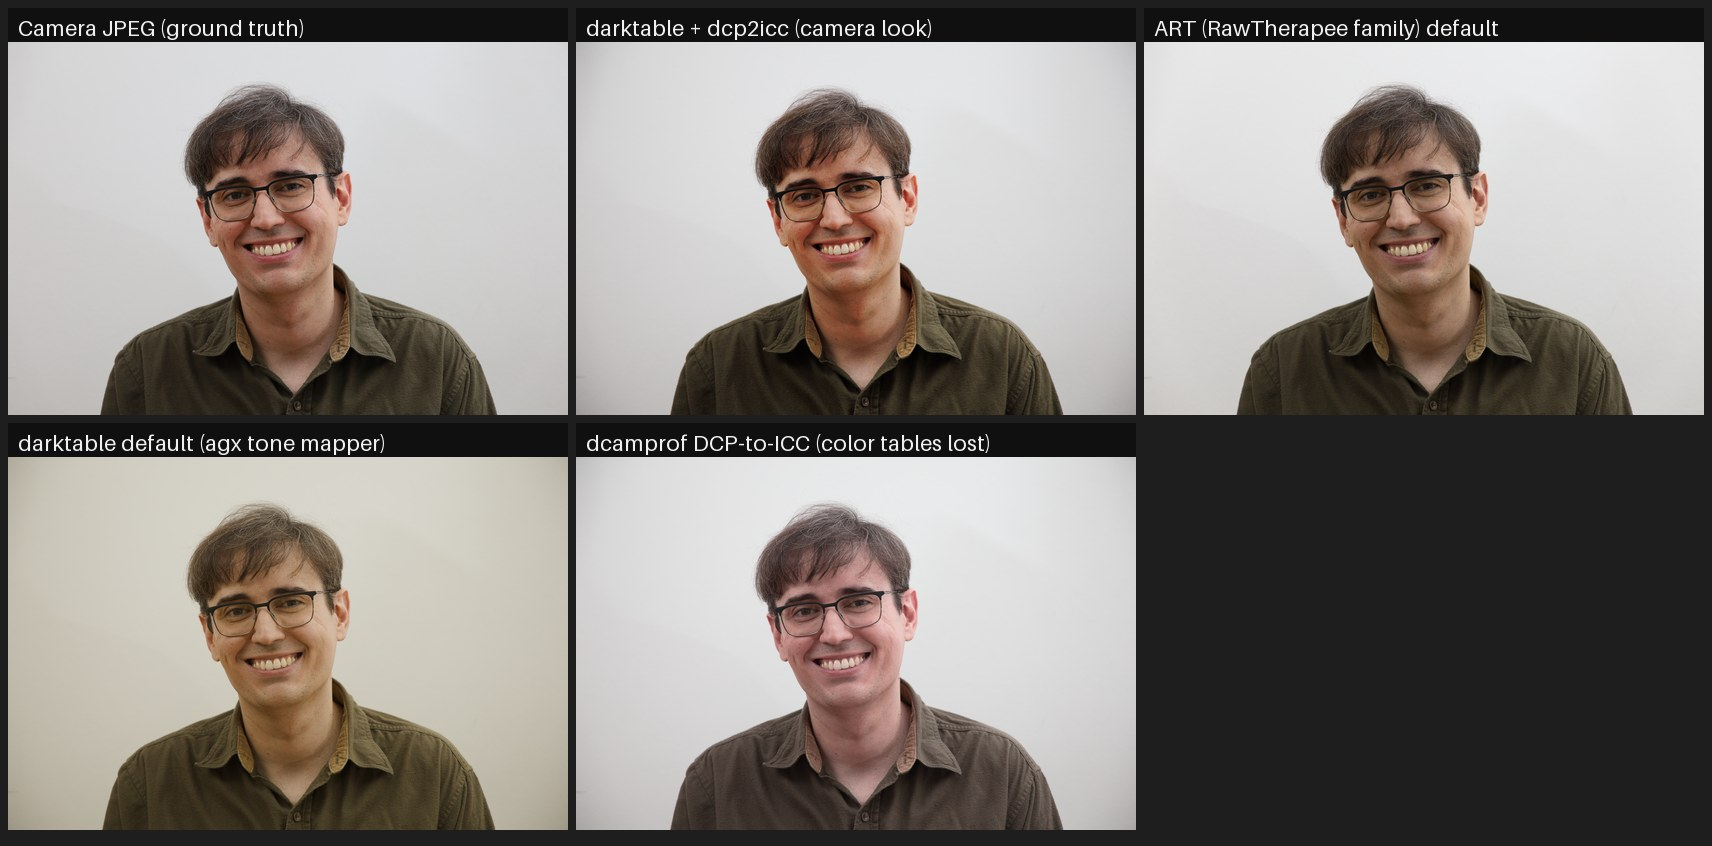
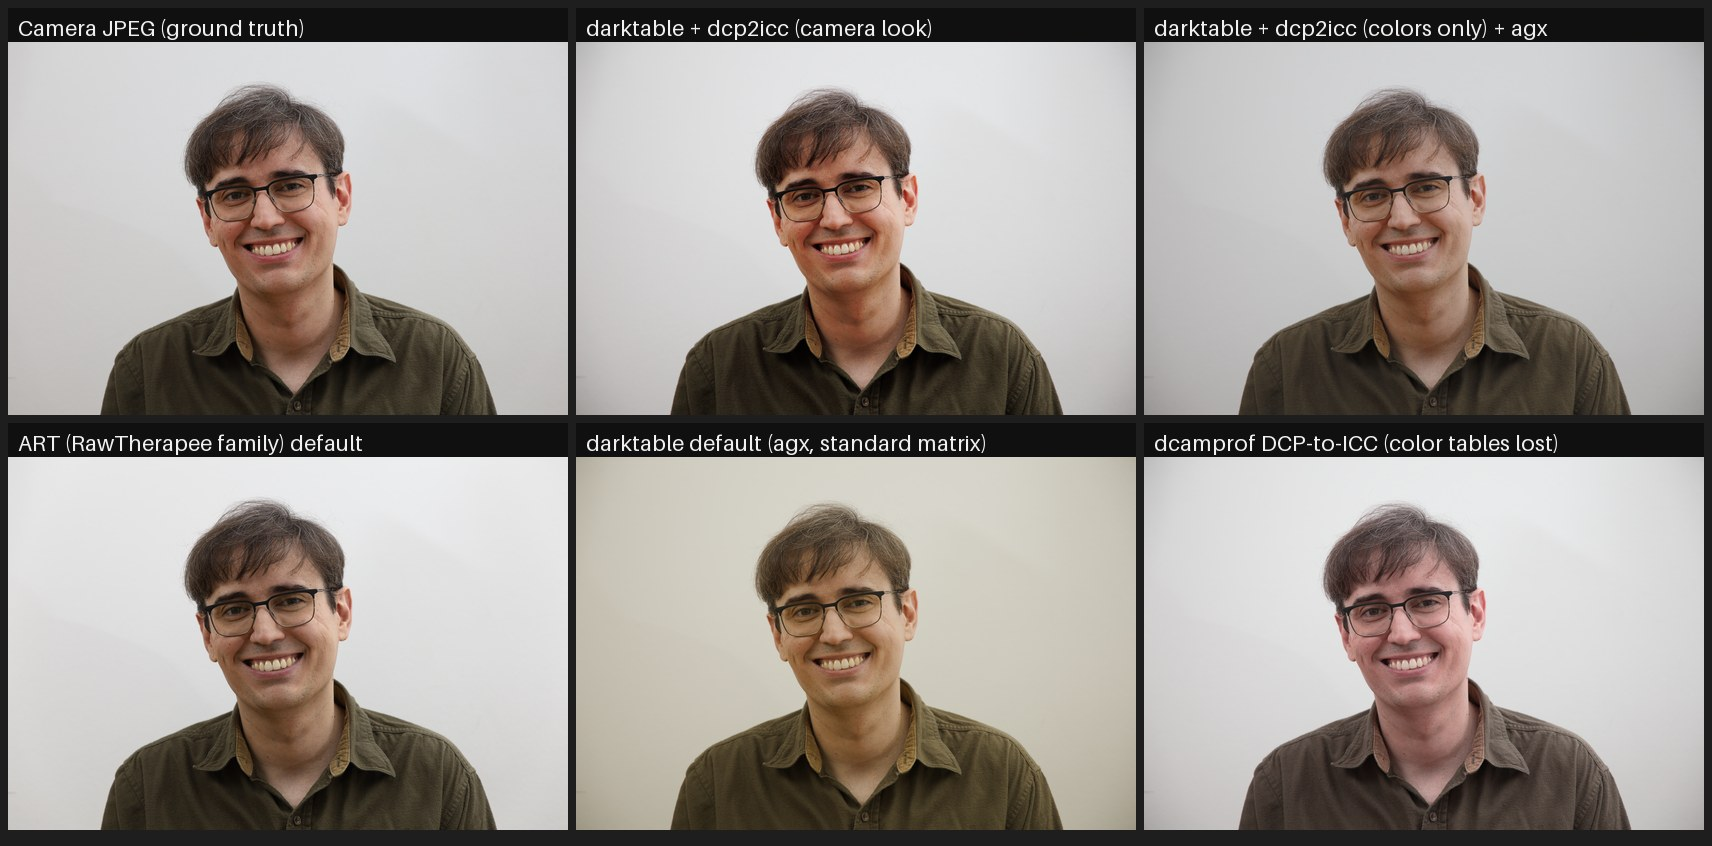
README: add (colors only) mode to comparisons, clarify usage paths
Comparison images and metrics now include the (colors only) profile
rendered with darktable's agx tone mapper. Usage rewritten as explicit
steps: where the DCP comes from, where the ICC ends up (--install ->
~/.config/darktable/color/in), Flatpak path, output naming.

diff --git a/README.md b/README.md
@@ -41,10 +41,18 @@ better):
 
 | Rendering | mean diff |
 |---|---|
-| **darktable + dcp2icc "(camera look)"** | **8.3** |
+| **darktable + dcp2icc "(camera look)"** | **8.5** |
 | ART default (native DCP + per-image auto-matched curve) | 10.3 |
+| darktable + dcp2icc "(colors only)" + agx tone mapper | 12.4 |
 | dcamprof DCP→ICC (color tables lost) + ACR curve | 13.2 |
 | darktable factory default (agx tone mapper, standard matrix) | 13.8 |
+
+The two dcp2icc rows are the two profile variants: *(camera look)* carries the
+camera's tone curve inside the profile and is the faithful JPEG match;
+*(colors only)* keeps darktable's own scene-referred tone mapper (sigmoid /
+filmic / agx — agx shown here) on top of the camera's color tables, trading
+some JPEG fidelity for darktable's full highlight handling. Even in that mode
+the colors are right — the remaining difference is tone curve shape.
 
 The remaining difference vs the JPEG is mostly sharpening/noise reduction and
 lens vignetting correction, which the camera applies and a color profile
@@ -69,19 +77,55 @@ nix develop              # dev shell with numpy
 
 ## Usage
 
+The workflow is: **find a DCP for your camera → run dcp2icc on it → the ICC
+lands in darktable's profile folder → select it in darktable.**
+
+### Step 1 — get a DCP file for your camera
+
+The `.dcp` input file can live anywhere on disk; you just pass its path to
+the tool. You don't need to move it anywhere special. Common sources (see
+[Where to get DCP profiles](#where-to-get-dcp-profiles) for details):
+
 ```sh
-# Convert a DCP; writes "<Camera> <Profile> (camera look).icc"
-# and "<Camera> <Profile> (colors only).icc" into the current directory:
-dcp2icc "Canon EOS RP Camera Standard.dcp"
-
-# Convert and install straight into darktable's profile folder:
-dcp2icc --install "Canon EOS RP Camera Standard.dcp"
-
-# All profiles for your camera at once:
-dcp2icc --install ~/dcps/"Canon EOS RP"*.dcp
+# RawTherapee's bundled profiles (path varies by distro):
+ls /usr/share/rawtherapee/dcpprofiles/
+# ART's bundled profiles:
+ls /usr/share/ART/dcpprofiles/
+# Adobe's profiles, extracted from DNG Converter (via Wine):
+ls ~/.wine/drive_c/ProgramData/Adobe/CameraRaw/CameraProfiles/Camera/
 ```
 
-Two variants are produced per DCP:
+### Step 2 — convert (and install)
+
+```sh
+# Recommended: convert AND copy the result into darktable's profile folder
+# (~/.config/darktable/color/in/) in one step:
+dcp2icc --install "/usr/share/ART/dcpprofiles/CANON EOS RP.dcp"
+
+# Several profiles at once:
+dcp2icc --install ~/my-dcps/"Canon EOS RP"*.dcp
+```
+
+Without `--install`, the `.icc` files are written to the **current
+directory** (or to `-o <dir>`), and you copy them manually:
+
+```sh
+dcp2icc -o /tmp/profiles "Canon EOS RP Camera Standard.dcp"
+mkdir -p ~/.config/darktable/color/in
+cp /tmp/profiles/*.icc ~/.config/darktable/color/in/
+```
+
+For **Flatpak** darktable the profile folder is
+`~/.var/app/org.darktable.Darktable/config/darktable/color/in/` — use `-o`
+and copy there yourself.
+
+Each DCP produces two ICCs, named after the camera and profile name embedded
+in the DCP, e.g.:
+
+```
+Canon EOS RP Camera Standard (camera look).icc
+Canon EOS RP Camera Standard (colors only).icc
+```
 
 - **`(camera look)`** — color tables **and** the DCP tone curve baked in,
   applied per RGB channel exactly like the camera/Adobe pipeline. This is the
@@ -92,16 +136,16 @@ Two variants are produced per DCP:
 
 Useful flags: `--variant look|colors|both`, `--curve-mode channel|luminance`,
 `--hsm-illuminant 1|2` (tungsten/daylight table for dual-illuminant DCPs),
-`--custom-curve curve.json` (fit your own tone curve), `--grid N`.
+`--custom-curve curve.json` (fit your own tone curve), `--grid N`,
+`--name "My name"` (override the profile name from the DCP).
 
-## Getting the ICC into darktable (important!)
+### Step 3 — select it in darktable
 
-1. Copy the `.icc` files to `~/.config/darktable/color/in/` (created
-   automatically by `--install`; Flatpak:
-   `~/.var/app/org.darktable.Darktable/config/darktable/color/in/`).
-2. **Restart darktable** — the folder is scanned at startup.
-3. Open your raw in the darkroom and set **input color profile → profile** to
-   the new entry.
+1. **Restart darktable** — the profile folder is only scanned at startup.
+2. Open your raw in the darkroom and set **input color profile → profile** to
+   the new entry (profiles appear under the name shown above).
+
+### Step 4 — module settings that make or break it
 
 For the **`(camera look)`** profiles the tone curve is already baked in, so
 darktable's own tone mapping must be off or it is applied twice:
